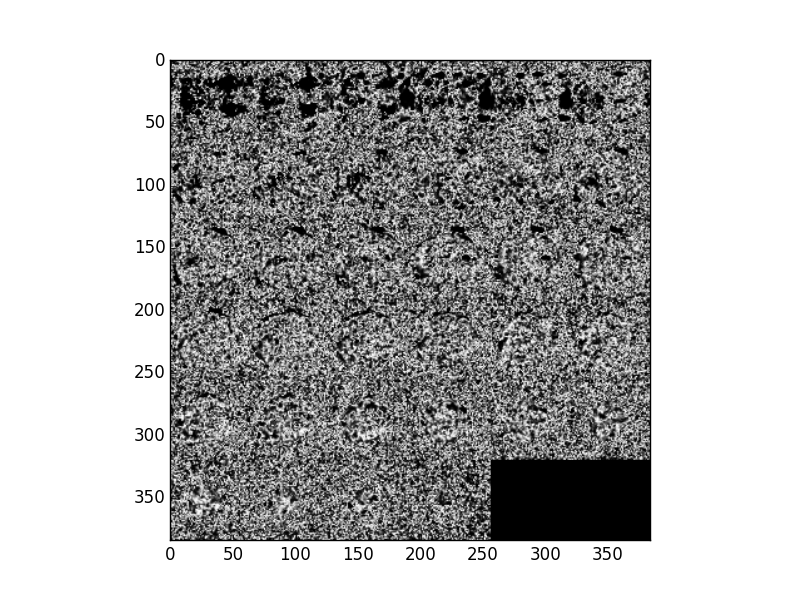
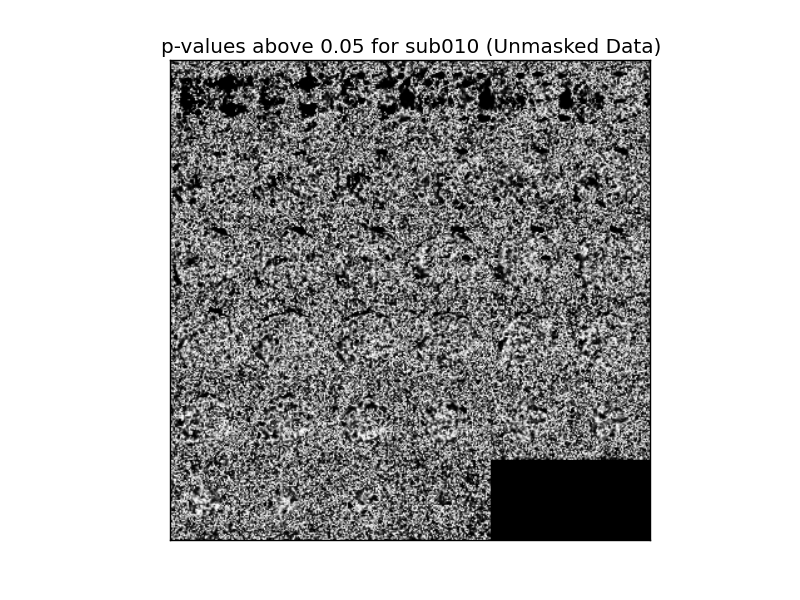
Fixed normality image slices, some more paper edits.

diff --git a/paper/main_sections/regression.tex b/paper/main_sections/regression.tex
@@ -26,7 +26,7 @@ that the errors are independent of $X$. The coefficients $\beta$ can be
 estimated with the closed-form solution:
 
 \begin{equation}
-\hat{\beta} =(X^T X)^{-1} X^T 
+\hat{\beta} =(X^T X)^{-1} Y^T 
 \end{equation}
 
 \par Even when $(X^T X)$ is not invertible, $\hat{\beta}$ can be estimated 
@@ -72,7 +72,8 @@ the masked data's principal components.
 \begin{figure}[ht]
 	\centering
 	\includegraphics[width=.5\linewidth]{../images/pcacumsumssub010.png}
- 	\caption{Comparing proportion of variance explained by Subject 10's principal components, with and without masking the data.}
+ 	\caption{Comparing proportion of variance explained by Subject 10's 
+principal components, with and without masking the data.}
  	\label{fig:pca10}
 \end{figure}
 
@@ -95,7 +96,10 @@ ramifications on the results.
 \begin{figure}[ht]
 	\centering
 	\includegraphics[width=.5\linewidth]{../images/pcaBOX.png}
- 	\caption{Boxplots comparing the amount of variance captured by principal components for each subject. The data was masked beforehand. All subjects are able to capture at least 40\% of the variance when using just six principal components.}
+ 	\caption{Boxplots comparing the amount of variance captured by principal 
+components for each subject. The data was masked beforehand. All subjects are 
+able to capture at least 40\% of the variance when using just six principal 
+components.}
  	\label{fig:pcabox}
 \end{figure}
 

diff --git a/final/scripts/normality_final.py b/final/scripts/normality_final.py
@@ -72,11 +72,17 @@ for i in sub_list:
     if (i[-3:]=="010"): 
         # Save image plots of unmasked p-values for subject 10. 
         plt.imshow(present_3d(sw_pvals), cmap=plt.get_cmap('gray'))
+        plt.xticks([])
+        plt.yticks([])
+        plt.title("p-values above 0.05 for " + i + " (Unmasked Data)")
         plt.savefig(location_of_images+i+'sw.png')
         plt.close()
 
         # Save image plots of masked p-values for a single subject. 
         plt.imshow(present_3d(masked_pvals), cmap=plt.get_cmap('gray'))
+        plt.xticks([])
+        plt.yticks([])
+        plt.title("p-values above 0.05 for " + i + " (Masked Data)")
         plt.savefig(location_of_images+i+'swmasked.png')
         plt.close()
      

diff --git a/code/utils/scripts/normality_script.py b/code/utils/scripts/normality_script.py
@@ -97,9 +97,15 @@ print("Proportion of voxels with p-value above 0.05 (masked): "+str(np.mean(pval
 # Compare the image plots of the brain slices with and without masking. 
 # Colors indicate whether the p-value for the voxel is above or below the 0.05 threshold. 
 plt.imshow(present_3d(sw_pvals), cmap=plt.get_cmap('gray'))
+plt.xticks([])
+plt.yticks([])
+plt.title("p-values above 0.05 for " + i + " (Unmasked Data)")
 plt.savefig(location_of_images+'sub001sw.png')
 plt.close()
 plt.imshow(present_3d(masked_pvals), cmap=plt.get_cmap('gray'))
+plt.xticks([])
+plt.yticks([])
+plt.title("p-values above 0.05 for " + i + " (Masked Data)")
 plt.savefig(location_of_images+'sub001swmasked.png')
 plt.close()
 

diff --git a/paper/README.md b/paper/README.md
@@ -1,8 +1,8 @@
 ## Generating the Report
 
-The Makefile contains three commands: `all`, `clean`, and `reset`. 
+The Makefile contains recipes to generate the report. 
 - `make all`: Generates the PDF of our report, including appendices. 
 - `make clean`: `make all` generates a lot of intermediate files besides the desired PDF, so `make clean` will remove all these other files. 
 - `make reset`: does the same thing as make clean, but also removes the report PDF, effectively reseting the directory to the state it was in prior to calling `make all`.
 
-Note that the raw `report.tex` file does not contain any content outside of section headers. To view the content for each section, please refer to the individual files located in the `text_files` and `appendix` subdirectories. Images required to generate the report are cached in the `images` subdirectory, but may also be re-generated by navigating to the `project-alpha/final` directory and running the appropriate scripts. 
+Note that the raw `report.tex` file does not contain any content outside of section headers. To view the raw content for each section, please refer to the individual files located in the `main_files` and `appendix` subdirectories. Images required to generate the report are cached in the `project-alpha/images`  directory, but may also be re-generated by navigating to the `project-alpha/final` directory and running the appropriate scripts. 

diff --git a/slides/README.md b/slides/README.md
@@ -1,6 +1,6 @@
 ## Generating the Slides 
 
-The Makefile contains . 
+The Makefile contains recipes to generate slides. 
 - `make progress`: Generates the PDF of our progress report slides. 
 - `make final`: Generates the PDF of our final slides. 
 
